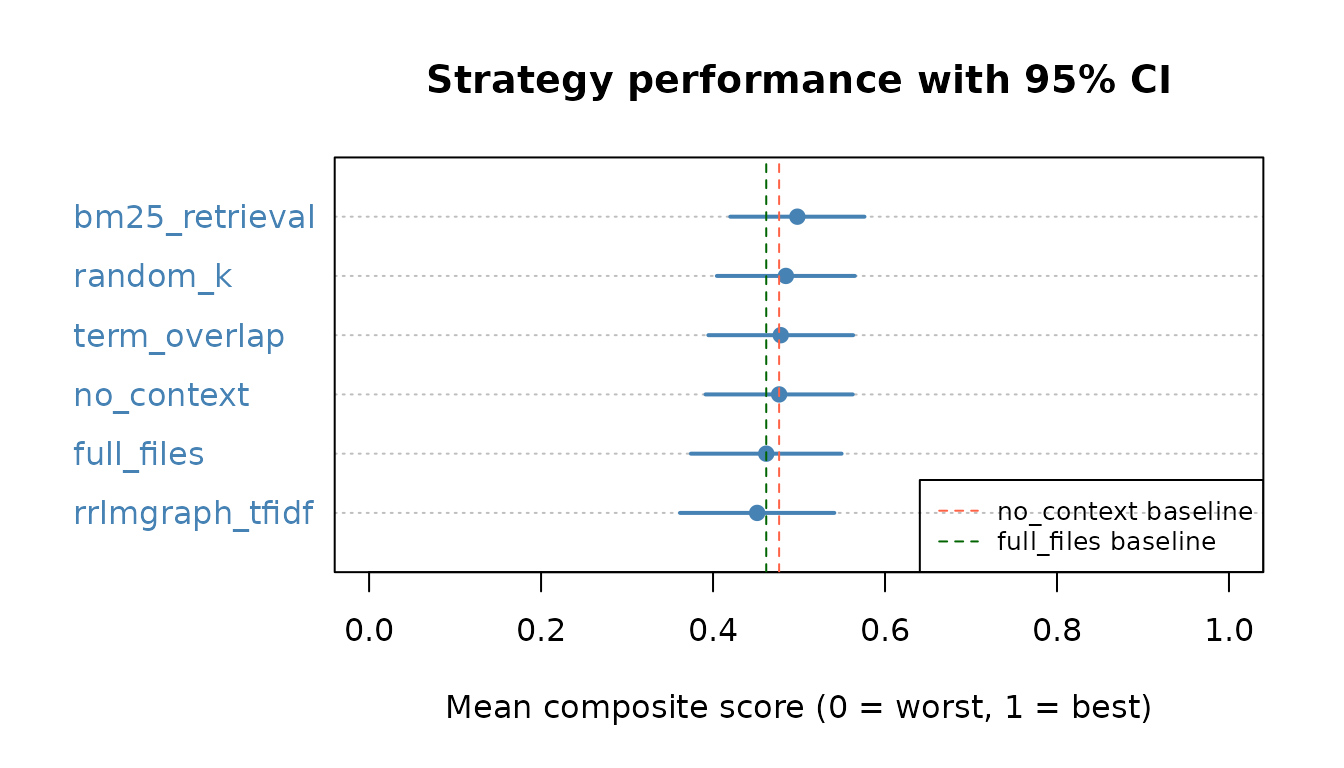
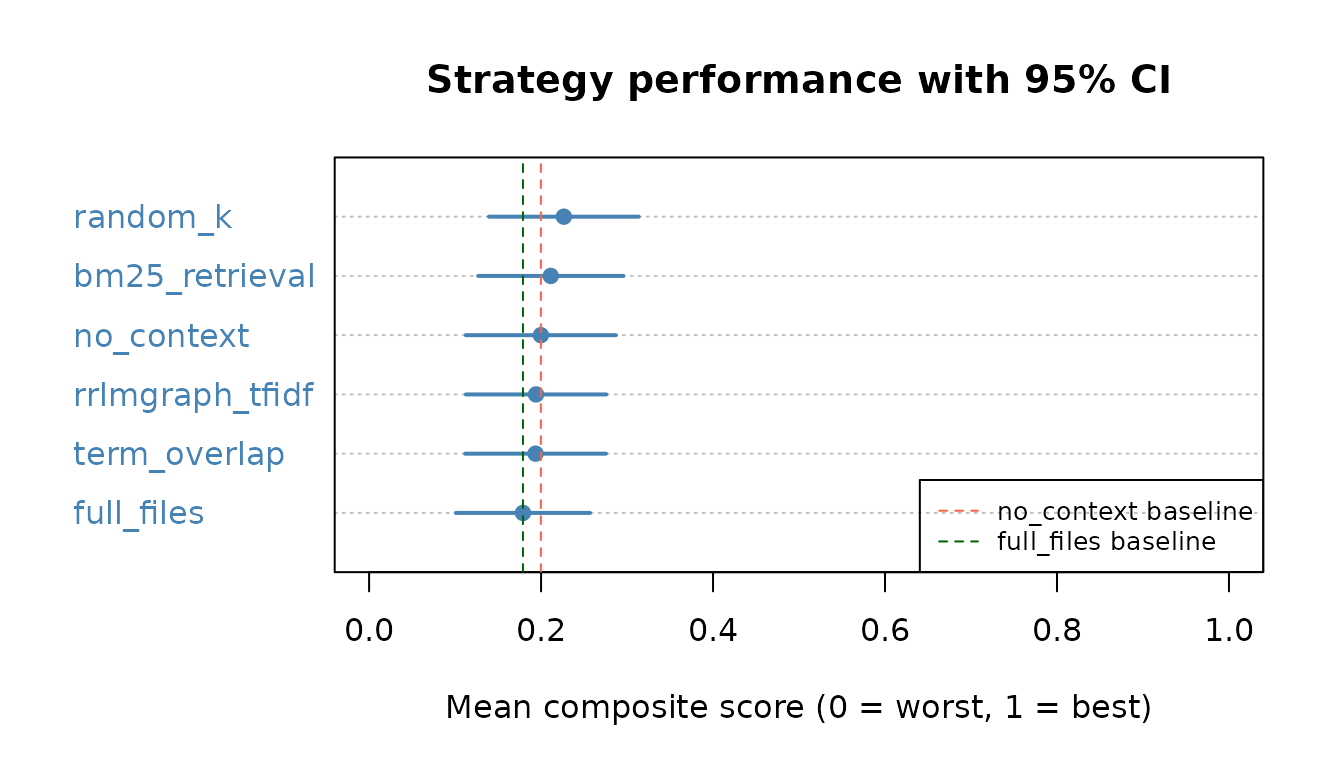
Deploying to gh-pages from @ davidrsch/rrlmgraph-bench@db394f7f7c7dfe981541f7616a620c60bcf5baf7 🚀

diff --git a/articles/benchmark_report.html b/articles/benchmark_report.html
@@ -221,55 +221,55 @@ metric. ‘syntax_valid’ and ‘runs_without_error’ are 0/1 indicators.
 <td align="left">task_001_fm_mini_ds</td>
 <td align="left">rrlmgraph_tfidf</td>
 <td align="right">1</td>
-<td align="right">0.0438938</td>
+<td align="right">0.0504673</td>
 <td align="left">FALSE</td>
 <td align="left">FALSE</td>
-<td align="right">314</td>
+<td align="right">597</td>
 </tr>
 <tr class="even">
 <td align="left">task_001_fm_mini_ds</td>
 <td align="left">full_files</td>
 <td align="right">1</td>
-<td align="right">0.0667826</td>
+<td align="right">0.0683333</td>
 <td align="left">FALSE</td>
 <td align="left">FALSE</td>
-<td align="right">1890</td>
+<td align="right">1844</td>
 </tr>
 <tr class="odd">
 <td align="left">task_001_fm_mini_ds</td>
 <td align="left">term_overlap</td>
 <td align="right">1</td>
-<td align="right">0.0606897</td>
+<td align="right">0.0647368</td>
 <td align="left">FALSE</td>
 <td align="left">FALSE</td>
-<td align="right">498</td>
+<td align="right">459</td>
 </tr>
 <tr class="even">
 <td align="left">task_001_fm_mini_ds</td>
 <td align="left">bm25_retrieval</td>
 <td align="right">1</td>
-<td align="right">0.0605405</td>
+<td align="right">0.0579130</td>
 <td align="left">FALSE</td>
 <td align="left">FALSE</td>
-<td align="right">1848</td>
+<td align="right">1834</td>
 </tr>
 <tr class="odd">
 <td align="left">task_001_fm_mini_ds</td>
 <td align="left">no_context</td>
 <td align="right">1</td>
-<td align="right">0.0581818</td>
+<td align="right">0.0470270</td>
 <td align="left">FALSE</td>
 <td align="left">FALSE</td>
-<td align="right">483</td>
+<td align="right">346</td>
 </tr>
 <tr class="even">
 <td align="left">task_001_fm_mini_ds</td>
 <td align="left">random_k</td>
 <td align="right">1</td>
-<td align="right">0.0567273</td>
+<td align="right">0.0716667</td>
 <td align="left">FALSE</td>
 <td align="left">FALSE</td>
-<td align="right">1847</td>
+<td align="right">1855</td>
 </tr>
 </tbody>
 </table>
@@ -361,61 +361,61 @@ rate per strategy.</caption>
 <tr class="odd">
 <td align="left">rrlmgraph_tfidf</td>
 <td align="right">30</td>
-<td align="right">0.451</td>
-<td align="right">0.240</td>
-<td align="right">0.362</td>
-<td align="right">0.541</td>
-<td align="right">75.167</td>
+<td align="right">0.194</td>
+<td align="right">0.219</td>
+<td align="right">0.112</td>
+<td align="right">0.276</td>
+<td align="right">566.833</td>
 <td align="right">0</td>
 </tr>
 <tr class="even">
 <td align="left">full_files</td>
 <td align="right">30</td>
-<td align="right">0.462</td>
-<td align="right">0.235</td>
-<td align="right">0.374</td>
-<td align="right">0.550</td>
-<td align="right">1747.567</td>
+<td align="right">0.179</td>
+<td align="right">0.209</td>
+<td align="right">0.101</td>
+<td align="right">0.257</td>
+<td align="right">1356.200</td>
 <td align="right">0</td>
 </tr>
 <tr class="odd">
 <td align="left">term_overlap</td>
 <td align="right">30</td>
-<td align="right">0.479</td>
-<td align="right">0.226</td>
-<td align="right">0.395</td>
-<td align="right">0.563</td>
-<td align="right">1944.800</td>
+<td align="right">0.194</td>
+<td align="right">0.219</td>
+<td align="right">0.112</td>
+<td align="right">0.275</td>
+<td align="right">2181.567</td>
 <td align="right">0</td>
 </tr>
 <tr class="even">
 <td align="left">bm25_retrieval</td>
 <td align="right">30</td>
-<td align="right">0.498</td>
-<td align="right">0.209</td>
-<td align="right">0.420</td>
-<td align="right">0.576</td>
-<td align="right">1504.233</td>
+<td align="right">0.211</td>
+<td align="right">0.226</td>
+<td align="right">0.127</td>
+<td align="right">0.296</td>
+<td align="right">1798.200</td>
 <td align="right">0</td>
 </tr>
 <tr class="odd">
 <td align="left">no_context</td>
 <td align="right">30</td>
-<td align="right">0.477</td>
-<td align="right">0.229</td>
-<td align="right">0.391</td>
-<td align="right">0.562</td>
-<td align="right">67.433</td>
+<td align="right">0.200</td>
+<td align="right">0.234</td>
+<td align="right">0.112</td>
+<td align="right">0.287</td>
+<td align="right">171.967</td>
 <td align="right">0</td>
 </tr>
 <tr class="even">
 <td align="left">random_k</td>
 <td align="right">30</td>
-<td align="right">0.485</td>
-<td align="right">0.215</td>
-<td align="right">0.404</td>
-<td align="right">0.565</td>
-<td align="right">1804.800</td>
+<td align="right">0.227</td>
+<td align="right">0.233</td>
+<td align="right">0.139</td>
+<td align="right">0.314</td>
+<td align="right">2118.733</td>
 <td align="right">0</td>
 </tr>
 </tbody>
@@ -511,27 +511,27 @@ strategy is less efficient.</caption>
 <tbody>
 <tr class="odd">
 <td align="left">no_context</td>
-<td align="right">26.756</td>
+<td align="right">8.805</td>
 <td align="left">More efficient than full_files</td>
 </tr>
 <tr class="even">
 <td align="left">rrlmgraph_tfidf</td>
-<td align="right">22.718</td>
+<td align="right">2.596</td>
 <td align="left">More efficient than full_files</td>
 </tr>
 <tr class="odd">
 <td align="left">bm25_retrieval</td>
-<td align="right">1.253</td>
-<td align="left">More efficient than full_files</td>
+<td align="right">0.891</td>
+<td align="left">Less efficient than full_files</td>
 </tr>
 <tr class="even">
 <td align="left">random_k</td>
-<td align="right">1.016</td>
-<td align="left">More efficient than full_files</td>
+<td align="right">0.810</td>
+<td align="left">Less efficient than full_files</td>
 </tr>
 <tr class="odd">
 <td align="left">term_overlap</td>
-<td align="right">0.931</td>
+<td align="right">0.673</td>
 <td align="left">Less efficient than full_files</td>
 </tr>
 <tr class="even">
@@ -759,39 +759,39 @@ differences across projects is not robust.</caption>
 <tbody>
 <tr class="odd">
 <td align="left">bm25_retrieval</td>
-<td align="right">0.493</td>
-<td align="right">0.553</td>
-<td align="right">0.448</td>
+<td align="right">0.120</td>
+<td align="right">0.261</td>
+<td align="right">0.253</td>
 </tr>
 <tr class="even">
 <td align="left">full_files</td>
-<td align="right">0.495</td>
-<td align="right">0.443</td>
-<td align="right">0.447</td>
+<td align="right">0.120</td>
+<td align="right">0.263</td>
+<td align="right">0.154</td>
 </tr>
 <tr class="odd">
 <td align="left">no_context</td>
-<td align="right">0.432</td>
-<td align="right">0.553</td>
-<td align="right">0.445</td>
+<td align="right">0.108</td>
+<td align="right">0.247</td>
+<td align="right">0.244</td>
 </tr>
 <tr class="even">
 <td align="left">random_k</td>
-<td align="right">0.452</td>
-<td align="right">0.553</td>
-<td align="right">0.448</td>
+<td align="right">0.166</td>
+<td align="right">0.259</td>
+<td align="right">0.254</td>
 </tr>
 <tr class="odd">
 <td align="left">rrlmgraph_tfidf</td>
-<td align="right">0.470</td>
-<td align="right">0.438</td>
-<td align="right">0.445</td>
+<td align="right">0.160</td>
+<td align="right">0.260</td>
+<td align="right">0.163</td>
 </tr>
 <tr class="even">
 <td align="left">term_overlap</td>
-<td align="right">0.493</td>
-<td align="right">0.495</td>
-<td align="right">0.448</td>
+<td align="right">0.119</td>
+<td align="right">0.261</td>
+<td align="right">0.201</td>
 </tr>
 </tbody>
 </table>

diff --git a/articles/benchmark_report.md b/articles/benchmark_report.md
@@ -84,12 +84,12 @@ if (!results_available) {
 
 | task_id             | strategy        | trial |     score | syntax_valid | runs_without_error | total_tokens |
 |:--------------------|:----------------|------:|----------:|:-------------|:-------------------|-------------:|
-| task_001_fm_mini_ds | rrlmgraph_tfidf |     1 | 0.0438938 | FALSE        | FALSE              |          314 |
-| task_001_fm_mini_ds | full_files      |     1 | 0.0667826 | FALSE        | FALSE              |         1890 |
-| task_001_fm_mini_ds | term_overlap    |     1 | 0.0606897 | FALSE        | FALSE              |          498 |
-| task_001_fm_mini_ds | bm25_retrieval  |     1 | 0.0605405 | FALSE        | FALSE              |         1848 |
-| task_001_fm_mini_ds | no_context      |     1 | 0.0581818 | FALSE        | FALSE              |          483 |
-| task_001_fm_mini_ds | random_k        |     1 | 0.0567273 | FALSE        | FALSE              |         1847 |
+| task_001_fm_mini_ds | rrlmgraph_tfidf |     1 | 0.0504673 | FALSE        | FALSE              |          597 |
+| task_001_fm_mini_ds | full_files      |     1 | 0.0683333 | FALSE        | FALSE              |         1844 |
+| task_001_fm_mini_ds | term_overlap    |     1 | 0.0647368 | FALSE        | FALSE              |          459 |
+| task_001_fm_mini_ds | bm25_retrieval  |     1 | 0.0579130 | FALSE        | FALSE              |         1834 |
+| task_001_fm_mini_ds | no_context      |     1 | 0.0470270 | FALSE        | FALSE              |          346 |
+| task_001_fm_mini_ds | random_k        |     1 | 0.0716667 | FALSE        | FALSE              |         1855 |
 
 First 6 rows of raw results. ‘score’ is the composite 0-1 metric.
 ‘syntax_valid’ and ‘runs_without_error’ are 0/1 indicators.
@@ -130,12 +130,12 @@ if (results_available) {
 
 | strategy        |   n | mean_score | sd_score | ci_lo_95 | ci_hi_95 | mean_total_tokens | hallucination_rate |
 |:----------------|----:|-----------:|---------:|---------:|---------:|------------------:|-------------------:|
-| rrlmgraph_tfidf |  30 |      0.451 |    0.240 |    0.362 |    0.541 |            75.167 |                  0 |
-| full_files      |  30 |      0.462 |    0.235 |    0.374 |    0.550 |          1747.567 |                  0 |
-| term_overlap    |  30 |      0.479 |    0.226 |    0.395 |    0.563 |          1944.800 |                  0 |
-| bm25_retrieval  |  30 |      0.498 |    0.209 |    0.420 |    0.576 |          1504.233 |                  0 |
-| no_context      |  30 |      0.477 |    0.229 |    0.391 |    0.562 |            67.433 |                  0 |
-| random_k        |  30 |      0.485 |    0.215 |    0.404 |    0.565 |          1804.800 |                  0 |
+| rrlmgraph_tfidf |  30 |      0.194 |    0.219 |    0.112 |    0.276 |           566.833 |                  0 |
+| full_files      |  30 |      0.179 |    0.209 |    0.101 |    0.257 |          1356.200 |                  0 |
+| term_overlap    |  30 |      0.194 |    0.219 |    0.112 |    0.275 |          2181.567 |                  0 |
+| bm25_retrieval  |  30 |      0.211 |    0.226 |    0.127 |    0.296 |          1798.200 |                  0 |
+| no_context      |  30 |      0.200 |    0.234 |    0.112 |    0.287 |           171.967 |                  0 |
+| random_k        |  30 |      0.227 |    0.233 |    0.139 |    0.314 |          2118.733 |                  0 |
 
 Summary: mean score, 95% CI, token usage, and hallucination rate per
 strategy.
@@ -225,14 +225,14 @@ if (results_available) {
 }
 ```
 
-| strategy        |    TER | interpretation                 |
-|:----------------|-------:|:-------------------------------|
-| no_context      | 26.756 | More efficient than full_files |
-| rrlmgraph_tfidf | 22.718 | More efficient than full_files |
-| bm25_retrieval  |  1.253 | More efficient than full_files |
-| random_k        |  1.016 | More efficient than full_files |
-| term_overlap    |  0.931 | Less efficient than full_files |
-| full_files      |     NA | N/A (baseline)                 |
+| strategy        |   TER | interpretation                 |
+|:----------------|------:|:-------------------------------|
+| no_context      | 8.805 | More efficient than full_files |
+| rrlmgraph_tfidf | 2.596 | More efficient than full_files |
+| bm25_retrieval  | 0.891 | Less efficient than full_files |
+| random_k        | 0.810 | Less efficient than full_files |
+| term_overlap    | 0.673 | Less efficient than full_files |
+| full_files      |    NA | N/A (baseline)                 |
 
 Token Efficiency Ratio (TER) vs full_files baseline. TER \> 1: strategy
 achieves higher score-per-token than full_files. TER \< 1: strategy is
@@ -400,12 +400,12 @@ if (results_available && "task_id" %in% names(all_results)) {
 
 | strategy        | mini_ds |  rpkg | shiny |
 |:----------------|--------:|------:|------:|
-| bm25_retrieval  |   0.493 | 0.553 | 0.448 |
-| full_files      |   0.495 | 0.443 | 0.447 |
-| no_context      |   0.432 | 0.553 | 0.445 |
-| random_k        |   0.452 | 0.553 | 0.448 |
-| rrlmgraph_tfidf |   0.470 | 0.438 | 0.445 |
-| term_overlap    |   0.493 | 0.495 | 0.448 |
+| bm25_retrieval  |   0.120 | 0.261 | 0.253 |
+| full_files      |   0.120 | 0.263 | 0.154 |
+| no_context      |   0.108 | 0.247 | 0.244 |
+| random_k        |   0.166 | 0.259 | 0.254 |
+| rrlmgraph_tfidf |   0.160 | 0.260 | 0.163 |
+| term_overlap    |   0.119 | 0.261 | 0.201 |
 
 Mean score per strategy per project type. A strategy with large
 differences across projects is not robust.
